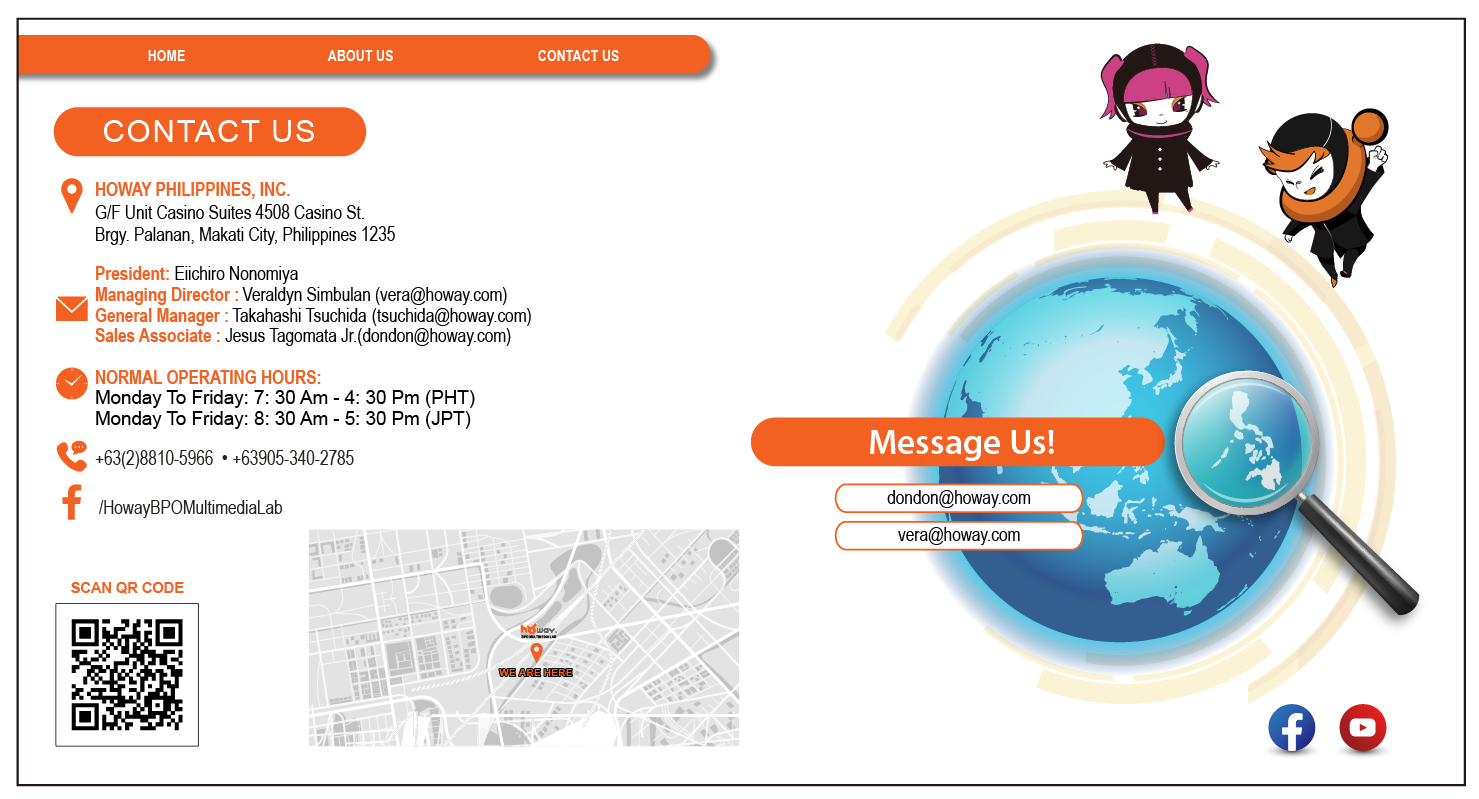
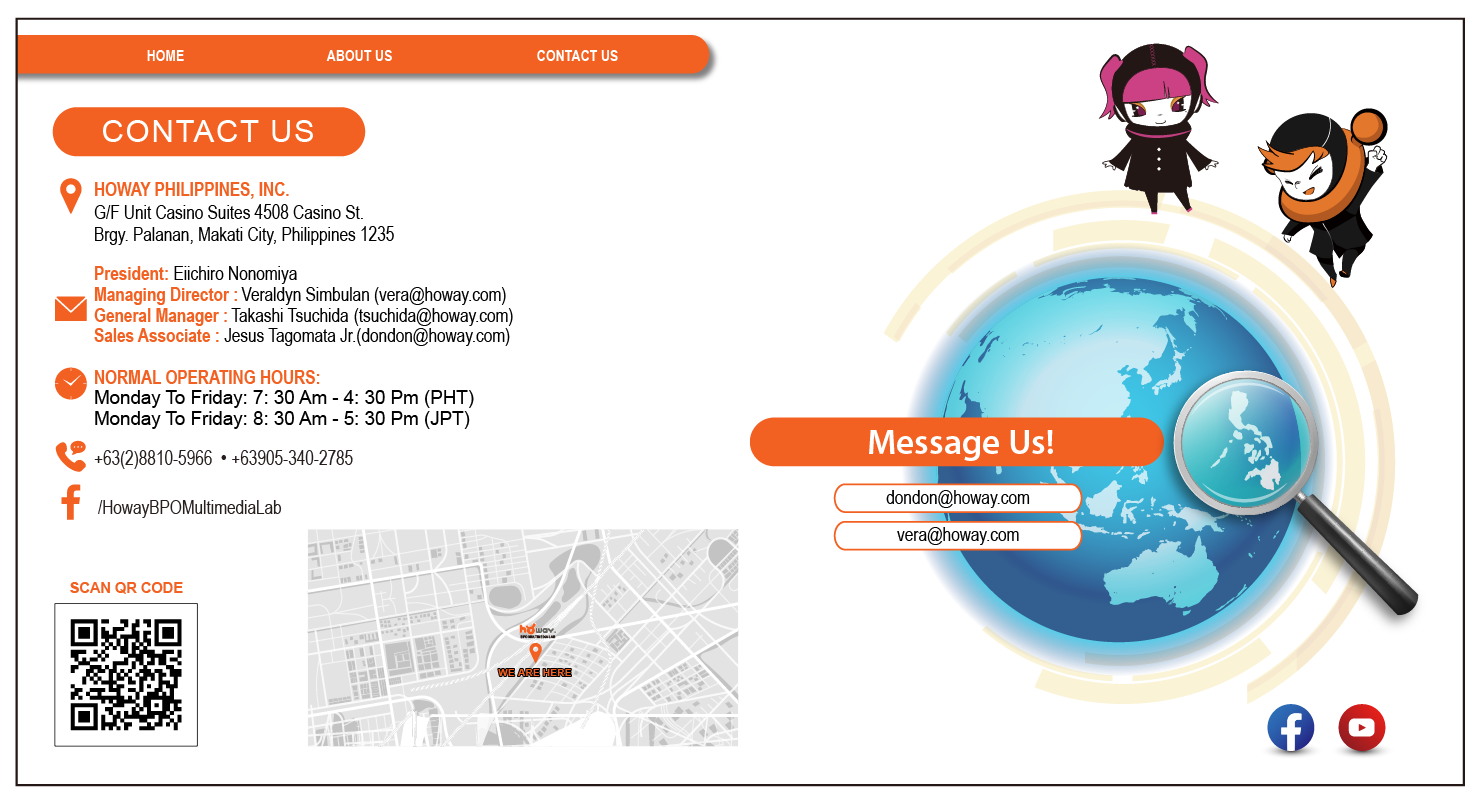
updated contact us
takashi

diff --git a/contactus.html b/contactus.html
@@ -18,7 +18,7 @@
   <area shape="rect" coords="1075,620,1371,651" href="mailto:dondon@howay.com">
   <area shape="rect" coords="1082,666,1368,699" href="mailto:vera@howay.com">
   <area shape="rect" coords="480,362,649,391" href="mailto:vera@howay.com">
-  <area shape="rect" coords="474,393,674,418" href="mailto:tuchida@howay.com">
+  <area shape="rect" coords="453,393,653,418" href="mailto:tuchida@howay.com">
   <area shape="rect" coords="456,417,649,440" href="mailto:dondon@howay.com">
   <area shape="rect" coords="673,46,801,93" href="contactus.html">
   <area shape="rect" coords="395,46,522,92" href="aboutus.html">
